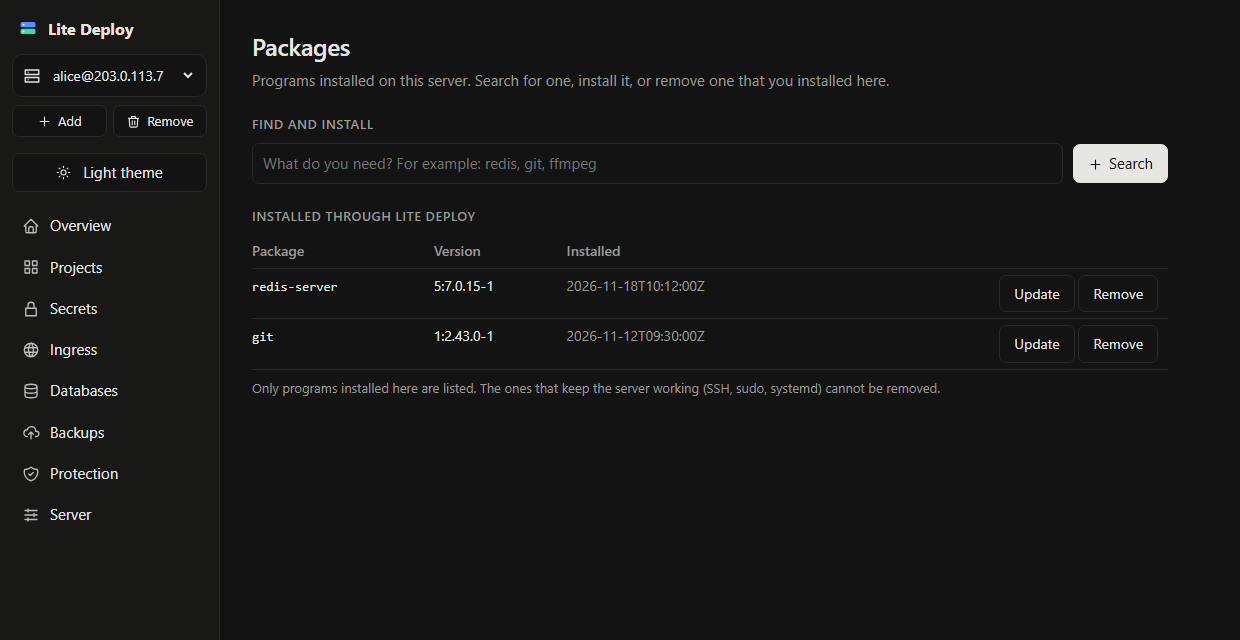
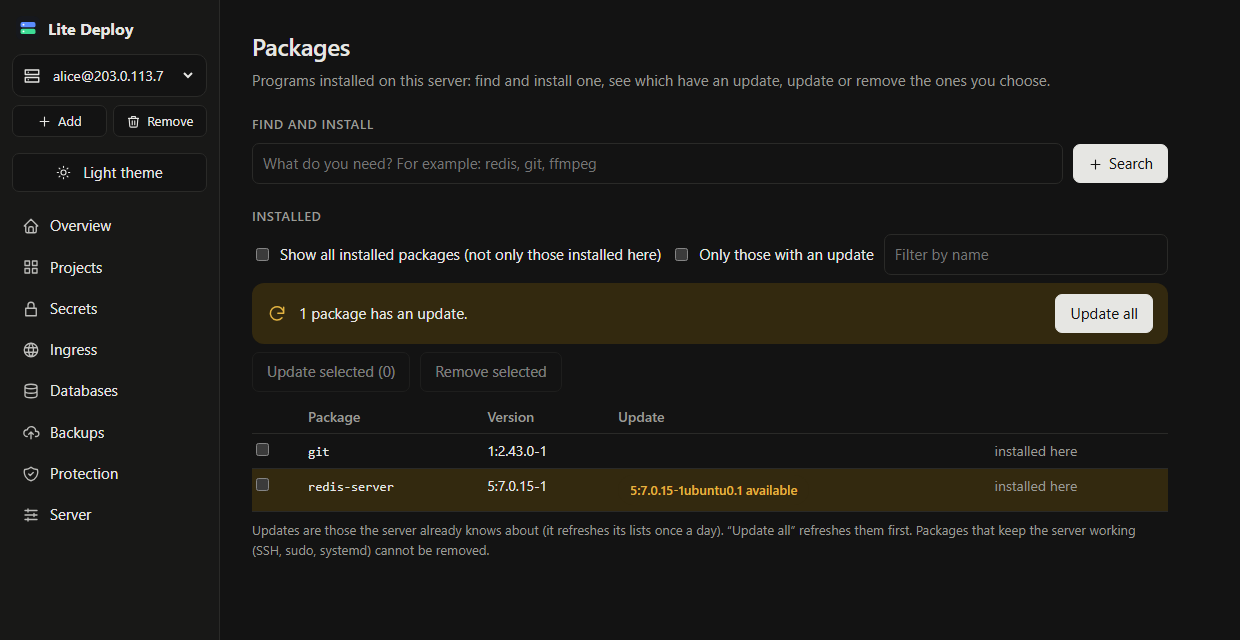
Packages: all installed packages, highlighted updates, selection, Update all (server: package list --all, update --all)

diff --git a/internal/ui/web/js/packages.js b/internal/ui/web/js/packages.js
@@ -1,52 +1,84 @@
 (function () {
-  // The packages of the server: search, install, update and remove. Everything is done by the `package` plugin on the
-  // server; this page only asks.
+  // The packages of the server: search and install, see what is installed and what has an update, update or remove the
+  // ones you choose, or update everything. All of it is done by the `package` plugin on the server; this page only asks.
   LU.components.Packages = {
-    data: function () { return { query: '', found: null, list: null, error: '' }; },
+    data: function () { return { query: '', found: null, list: null, error: '', all: false, filter: '', onlyUpd: false, sel: {} }; },
     template: '\
 <div>\
   <h1>Packages</h1>\
-  <p class="sub">Programs installed on this server. Search for one, install it, or remove one that you installed here.</p>\
+  <p class="sub">Programs installed on this server: find and install one, see which have an update, update or remove the ones you choose.</p>\
   <h3>Find and install</h3>\
   <form class="row" @submit.prevent="search">\
     <input class="grow" type="text" v-model="query" placeholder="What do you need? For example: redis, git, ffmpeg" autocomplete="off" spellcheck="false">\
     <button class="primary" type="submit" :disabled="$root.state.busy"><icon name="plus"></icon>Search</button></form>\
-  <p v-if="error" class="down">{{ error }}</p>\
   <table v-if="found && found.length"><tr><th>Package</th><th>What it is</th><th></th></tr>\
     <tr v-for="f in found" :key="f.name"><td><code>{{ f.name }}</code></td><td>{{ f.summary }}</td>\
       <td style="text-align:right"><button @click="install(f.name)" :disabled="$root.state.busy">Install</button></td></tr></table>\
   <p v-else-if="found" class="empty">Nothing found. Try another word.</p>\
-  <h3>Installed through Lite Deploy</h3>\
-  <p v-if="list && !list.length" class="empty">Nothing yet. Programs you install here appear in this list.</p>\
-  <table v-else-if="list"><tr><th>Package</th><th>Version</th><th>Installed</th><th></th></tr>\
-    <tr v-for="p in list" :key="p.name"><td><code>{{ p.name }}</code></td><td>{{ p.version }}</td><td class="muted">{{ p.installed_at }}</td>\
-      <td style="text-align:right;white-space:nowrap"><button @click="update(p.name)" :disabled="$root.state.busy">Update</button>\
-        <button @click="remove(p.name)" :disabled="$root.state.busy">Remove</button></td></tr></table>\
+  <h3>Installed</h3>\
+  <div class="row" style="margin-bottom:8px">\
+    <label class="check" style="margin:0"><input type="checkbox" v-model="all" @change="load"> Show all installed packages (not only those installed here)</label>\
+    <label class="check" style="margin:0"><input type="checkbox" v-model="onlyUpd"> Only those with an update</label>\
+    <input class="grow" type="text" v-model="filter" placeholder="Filter by name" autocomplete="off" spellcheck="false"></div>\
+  <div v-if="list" class="notice" :class="{warn: updates > 0}"><icon name="refresh"></icon>\
+    <div class="t">{{ updates ? updates + (updates === 1 ? " package has" : " packages have") + " an update." : "Everything shown is up to date." }}</div>\
+    <button v-if="updates" class="primary" @click="updateAll" :disabled="$root.state.busy">Update all</button></div>\
+  <div class="row" style="margin:8px 0" v-if="list">\
+    <button @click="updateSelected" :disabled="$root.state.busy || !chosen.length">Update selected ({{ chosen.length }})</button>\
+    <button @click="removeSelected" :disabled="$root.state.busy || !chosen.length">Remove selected</button>\
+    <span class="help" v-if="chosen.length > 16">Choose at most 16 at a time.</span>\
+    <span class="help" v-else-if="chosen.length && !removable">Remove works only for packages installed here.</span></div>\
+  <p v-if="error" class="down">{{ error }}</p>\
+  <table v-if="list && shown.length"><tr><th></th><th>Package</th><th>Version</th><th>Update</th><th></th></tr>\
+    <tr v-for="p in shown" :key="p.name" :style="p.update ? \'background:var(--warnbg)\' : \'\'">\
+      <td><input type="checkbox" v-model="sel[p.name]"></td>\
+      <td><code>{{ p.name }}</code></td><td>{{ p.version }}</td>\
+      <td><span v-if="p.update" class="pill warn">{{ p.update }} available</span></td>\
+      <td class="muted">{{ p.lite ? "installed here" : "" }}</td></tr></table>\
+  <p v-else-if="list" class="empty">{{ list.length ? "Nothing matches the filter." : "Nothing yet. Programs you install here appear in this list; tick “Show all installed packages” to see everything." }}</p>\
   <p v-else class="empty">Loading…</p>\
-  <div class="help">Only programs installed here are listed. The ones that keep the server working (SSH, sudo, systemd) cannot be removed.</div>\
+  <div class="help">Updates are those the server already knows about (it refreshes its lists once a day). “Update all” refreshes them first. Packages that keep the server working (SSH, sudo, systemd) cannot be removed.</div>\
 </div>',
+    computed: {
+      shown: function () {
+        var f = this.filter.trim().toLowerCase(), only = this.onlyUpd;
+        return (this.list || []).filter(function (p) { return (!f || p.name.toLowerCase().indexOf(f) >= 0) && (!only || p.update); });
+      },
+      updates: function () { return (this.list || []).filter(function (p) { return p.update; }).length; },
+      chosen: function () { var s = this.sel; return (this.list || []).filter(function (p) { return s[p.name]; }); },
+      removable: function () { return this.chosen.every(function (p) { return p.lite; }); }
+    },
     methods: {
       load: function () {
-        var self = this;
-        LU.api('/api/plugin', { plugin: 'package', command: 'list', args: [] }).then(function (r) {
+        var self = this; self.error = ''; self.list = null; self.sel = {};
+        LU.api('/api/plugin', { plugin: 'package', command: 'list', args: self.all ? ['--all'] : [] }).then(function (r) {
           if (r.ok) { self.list = (r.data && r.data.packages) || []; } else { self.error = r.error ? r.error.message : 'Could not load.'; }
         });
       },
       search: function () {
         var self = this, q = this.query.trim();
-        self.error = '';
         if (q.length < 2) { LU.say('err', 'Type at least two letters.'); return; }
         LU.run('Searching…', '/api/plugin', { plugin: 'package', command: 'search', args: q.split(/\s+/) }, function () { return 'Done.'; })
           .then(function (r) { if (r.ok) { self.found = (r.data && r.data.found) || []; LU.clear(); } });
       },
-      act: function (verb, name, wait, doneText) {
+      act: function (verb, names, ask, wait, doneText) {
         var self = this;
-        if (!confirm(verb[0].toUpperCase() + verb.slice(1) + ' ' + name + ' on this server?')) return;
-        LU.run(wait, '/api/plugin', { plugin: 'package', command: verb, args: [name] }, function () { return doneText; }).then(function () { self.load(); });
+        if (!confirm(ask)) return;
+        LU.run(wait, '/api/plugin', { plugin: 'package', command: verb, args: names }, function () { return doneText; }).then(function () { self.load(); });
       },
-      install: function (n) { this.act('install', n, 'Installing ' + n + '…', n + ' is installed.'); },
-      update: function (n) { this.act('update', n, 'Updating ' + n + '…', n + ' is updated.'); },
-      remove: function (n) { this.act('remove', n, 'Removing ' + n + '…', n + ' is removed.'); }
+      install: function (n) { this.act('install', [n], 'Install ' + n + ' on this server?', 'Installing ' + n + '…', n + ' is installed.'); },
+      updateAll: function () { this.act('update', ['--all'], 'Update every package that has an update (' + this.updates + ')? Some services may restart.', 'Updating everything… this can take a few minutes', 'Everything is updated.'); },
+      updateSelected: function () {
+        var n = this.chosen.map(function (p) { return p.name; });
+        if (n.length > 16) { LU.say('err', 'Choose at most 16 packages at a time, or use “Update all”.'); return; }
+        this.act('update', n, 'Update ' + n.join(', ') + '?', 'Updating…', 'Updated: ' + n.join(', ') + '.');
+      },
+      removeSelected: function () {
+        var n = this.chosen.map(function (p) { return p.name; });
+        if (n.length > 16) { LU.say('err', 'Choose at most 16 packages at a time.'); return; }
+        if (!this.removable) { LU.say('err', 'Remove works only for packages installed here. Untick the others.'); return; }
+        this.act('remove', n, 'Remove ' + n.join(', ') + ' from this server?', 'Removing…', 'Removed: ' + n.join(', ') + '.');
+      }
     },
     mounted: function () { this.load(); }
   };

diff --git a/internal/pkgmgr/pkgmgr.go b/internal/pkgmgr/pkgmgr.go
@@ -441,3 +441,137 @@ func (m *Manager) Search(ctx context.Context, query string) ([]Found, error) {
 	}
 	return out, nil
 }
+
+// Installed is a package that is on the system, however it got there.
+type Installed struct {
+	Name    string `json:"name"`
+	Version string `json:"version"`
+}
+
+// ListAll returns every package that is installed on the system (not only those installed through lite).
+func (m *Manager) ListAll(ctx context.Context) ([]Installed, error) {
+	mgr, err := m.Detect(ctx)
+	if err != nil {
+		return nil, err
+	}
+	var c host.Cmd
+	switch mgr {
+	case "apt":
+		c = host.Cmd{Name: "dpkg-query", Args: []string{"-W", "-f=${Package}\t${Version}\t${Status}\n"}}
+	case "dnf", "zypper":
+		c = host.Cmd{Name: "rpm", Args: []string{"-qa", "--qf", "%{NAME}\t%{VERSION}-%{RELEASE}\n"}}
+	default:
+		c = host.Cmd{Name: "pacman", Args: []string{"-Q"}}
+	}
+	res, err := m.Runner.Run(ctx, c)
+	if err != nil {
+		return nil, err
+	}
+	if res.ExitCode != 0 {
+		return nil, fail("step_failed", "could not list the packages: %s", strings.TrimSpace(string(res.Stderr)))
+	}
+	out := []Installed{}
+	for _, line := range strings.Split(string(res.Stdout), "\n") {
+		var name, ver string
+		switch mgr {
+		case "apt":
+			f := strings.Split(line, "\t")
+			if len(f) < 3 || !strings.HasSuffix(f[2], " installed") || strings.HasPrefix(f[2], "deinstall") {
+				continue
+			}
+			name, ver = f[0], f[1]
+		case "pacman":
+			name, ver, _ = strings.Cut(line, " ")
+		default:
+			name, ver, _ = strings.Cut(line, "\t")
+		}
+		if name = strings.TrimSpace(name); nameRe.MatchString(name) {
+			out = append(out, Installed{Name: name, Version: strings.TrimSpace(ver)})
+		}
+	}
+	sort.Slice(out, func(i, j int) bool { return out[i].Name < out[j].Name })
+	return out, nil
+}
+
+var aptInstRe = regexp.MustCompile(`^Inst (\S+) (?:\[[^\]]*\] )?\((\S+)`)
+
+// Upgradable returns the packages for which a newer version is available: name → the new version. It reads the lists of
+// packages the system already has (run an update of the lists to learn about the newest ones) and changes nothing.
+func (m *Manager) Upgradable(ctx context.Context) (map[string]string, error) {
+	mgr, err := m.Detect(ctx)
+	if err != nil {
+		return nil, err
+	}
+	out := map[string]string{}
+	switch mgr {
+	case "apt":
+		res, err := m.Runner.Run(ctx, host.Cmd{Name: "apt-get", Args: []string{"-s", "upgrade"}})
+		if err != nil {
+			return nil, err
+		}
+		for _, line := range strings.Split(string(res.Stdout), "\n") {
+			if mm := aptInstRe.FindStringSubmatch(strings.TrimSpace(line)); mm != nil {
+				out[mm[1]] = mm[2]
+			}
+		}
+	case "dnf":
+		res, err := m.Runner.Run(ctx, host.Cmd{Name: "dnf", Args: []string{"-q", "check-update"}})
+		if err != nil {
+			return nil, err
+		}
+		for _, line := range strings.Split(string(res.Stdout), "\n") {
+			f := strings.Fields(line)
+			if len(f) == 3 {
+				name, _, _ := strings.Cut(f[0], ".")
+				out[name] = f[1]
+			}
+		}
+	}
+	return out, nil
+}
+
+// UpdateAll brings every installed package to the newest version the repositories have.
+func (m *Manager) UpdateAll(ctx context.Context) error {
+	mgr, err := m.Detect(ctx)
+	if err != nil {
+		return err
+	}
+	env := []string{"DEBIAN_FRONTEND=noninteractive"}
+	var cmds []host.Cmd
+	switch mgr {
+	case "apt":
+		cmds = []host.Cmd{{Name: "apt-get", Args: []string{"update", "-qq"}}, {Name: "apt-get", Args: []string{"upgrade", "-y", "-qq"}, Env: env}}
+	case "dnf":
+		cmds = []host.Cmd{{Name: "dnf", Args: []string{"upgrade", "-y", "-q"}}}
+	case "zypper":
+		cmds = []host.Cmd{{Name: "zypper", Args: []string{"--non-interactive", "update"}}}
+	default:
+		cmds = []host.Cmd{{Name: "pacman", Args: []string{"-Syu", "--noconfirm"}}}
+	}
+	for _, c := range cmds {
+		res, err := m.run(ctx, c)
+		if err != nil {
+			return fail("step_failed", "%s: %v", c.Name, err)
+		}
+		if res.ExitCode != 0 && c.Name == "apt-get" && aptSandboxDenied(res) {
+			c.Args = append([]string{"-o", "APT::Sandbox::User=root"}, c.Args...)
+			if res, err = m.run(ctx, c); err != nil {
+				return fail("step_failed", "%s: %v", c.Name, err)
+			}
+		}
+		if res.ExitCode != 0 {
+			return fail("step_failed", "%s %s: %s", c.Name, strings.Join(c.Args, " "), strings.TrimSpace(string(res.Stderr)))
+		}
+	}
+	// the versions kept in the journal of lite follow
+	es, err := m.loadJournal()
+	if err != nil {
+		return err
+	}
+	for i := range es {
+		if v, ok, _ := m.Query(ctx, mgr, es[i].Name); ok {
+			es[i].Version = v
+		}
+	}
+	return m.saveJournal(es)
+}

diff --git a/internal/builtin/pkg.go b/internal/builtin/pkg.go
@@ -22,11 +22,11 @@ func (Pkg) Description() string {
 }
 func (Pkg) Commands() []plugin.Command {
 	return []plugin.Command{
-		{Name: "list", Help: "packages installed through lite"},
+		{Name: "list", Args: "[--all]", Help: "packages installed through lite (--all: every installed package), with the newer version where one is available"},
 		{Name: "search", Help: "find packages by name or description (reads only)", Args: "WORDS"},
 		{Name: "check", Help: "whether a package is installed and its version", Args: "PACKAGE"},
 		{Name: "install", Help: "install packages", Args: "PACKAGE…", Confirm: true},
-		{Name: "update", Help: "update packages", Args: "PACKAGE…", Confirm: true},
+		{Name: "update", Help: "update packages (--all: every installed package)", Args: "PACKAGE…|--all", Confirm: true},
 		{Name: "remove", Help: "remove packages (the ssh server, sudo, systemd and the shell cannot be removed)", Args: "PACKAGE…", Confirm: true},
 	}
 }
@@ -47,24 +47,54 @@ func (Pkg) Run(ctx context.Context, env plugin.Env, cmd string, args []string) (
 	m := manager(env)
 	switch cmd {
 	case "list":
-		if len(args) != 0 {
-			return plugin.Output{}, plugin.Errorf("usage", "package list: takes no arguments")
+		all := len(args) == 1 && args[0] == "--all"
+		if len(args) != 0 && !all {
+			return plugin.Output{}, plugin.Errorf("usage", "usage: lite package list [--all]")
 		}
 		es, err := m.List()
 		if err != nil {
 			return plugin.Output{}, pkgErr(err)
 		}
-		if es == nil {
-			es = []pkgmgr.Entry{}
+		upd, uerr := m.Upgradable(ctx)
+		if uerr != nil {
+			upd = map[string]string{} // the list is still useful without the marks
+		}
+		type row struct {
+			Name        string `json:"name"`
+			Version     string `json:"version"`
+			InstalledAt string `json:"installed_at,omitempty"`
+			Lite        bool   `json:"lite"`
+			Update      string `json:"update,omitempty"`
+		}
+		rows := []row{}
+		byLite := map[string]bool{}
+		for _, e := range es {
+			byLite[e.Name] = true
+			if !all {
+				rows = append(rows, row{Name: e.Name, Version: e.Version, InstalledAt: e.InstalledAt, Lite: true, Update: upd[e.Name]})
+			}
+		}
+		if all {
+			every, err := m.ListAll(ctx)
+			if err != nil {
+				return plugin.Output{}, pkgErr(err)
+			}
+			for _, p := range every {
+				rows = append(rows, row{Name: p.Name, Version: p.Version, Lite: byLite[p.Name], Update: upd[p.Name]})
+			}
 		}
 		var sb strings.Builder
-		if len(es) == 0 {
+		if len(rows) == 0 {
 			sb.WriteString("No packages have been installed through lite yet.\n")
 		}
-		for _, e := range es {
-			fmt.Fprintf(&sb, "%-30s %-20s %s\n", e.Name, e.Version, e.InstalledAt)
+		for _, r := range rows {
+			note := ""
+			if r.Update != "" {
+				note = "  update: " + r.Update
+			}
+			fmt.Fprintf(&sb, "%-30s %-20s%s\n", r.Name, r.Version, note)
 		}
-		return plugin.Output{Text: sb.String(), Data: map[string]any{"packages": es}}, nil
+		return plugin.Output{Text: sb.String(), Data: map[string]any{"packages": rows}}, nil
 	case "search":
 		if len(args) == 0 {
 			return plugin.Output{}, plugin.Errorf("usage", "usage: lite package search WORDS")
@@ -99,6 +129,12 @@ func (Pkg) Run(ctx context.Context, env plugin.Env, cmd string, args []string) (
 		}
 		return plugin.Output{Text: text, Data: in}, nil
 	case "install", "update", "remove":
+		if cmd == "update" && len(args) == 1 && args[0] == "--all" {
+			if err := m.UpdateAll(ctx); err != nil {
+				return plugin.Output{}, pkgErr(err)
+			}
+			return textOut("Every package is updated.\n"), nil
+		}
 		if len(args) == 0 {
 			return plugin.Output{}, plugin.Errorf("usage", "usage: lite package %s PACKAGE…", cmd)
 		}

diff --git a/internal/pkgmgr/pkgmgr_test.go b/internal/pkgmgr/pkgmgr_test.go
@@ -269,3 +269,41 @@ func TestAptRetriesWithoutTheSandboxUser(t *testing.T) {
 		t.Errorf("a real failure must be reported: %v", err)
 	}
 }
+
+func TestListAllAndUpgradable(t *testing.T) {
+	r := &host.FakeRunner{Handler: func(c host.Cmd) (host.Result, error) {
+		switch c.Name {
+		case "dpkg-query":
+			return host.Result{Stdout: []byte("bash\t5.2-1\tinstall ok installed\nold\t1.0\tdeinstall ok config-files\nredis-server\t7.0-1\tinstall ok installed\n")}, nil
+		case "apt-get":
+			if len(c.Args) > 0 && c.Args[0] == "-s" {
+				return host.Result{Stdout: []byte("Reading package lists...\nInst redis-server [7.0-1] (7.0-2 Ubuntu:24.04/noble-updates [amd64])\nConf redis-server (7.0-2 Ubuntu:24.04/noble-updates [amd64])\n")}, nil
+			}
+		}
+		return host.Result{}, nil
+	}}
+	m := &Manager{Runner: r, FS: host.NewMemFS()}
+	all, err := m.ListAll(context.Background())
+	if err != nil || len(all) != 2 || all[0].Name != "bash" || all[1].Version != "7.0-1" {
+		t.Fatalf("a removed package must not be listed: %+v %v", all, err)
+	}
+	up, err := m.Upgradable(context.Background())
+	if err != nil || up["redis-server"] != "7.0-2" || len(up) != 1 {
+		t.Fatalf("%+v %v", up, err)
+	}
+}
+
+func TestUpdateAll(t *testing.T) {
+	var calls []string
+	r := &host.FakeRunner{Handler: func(c host.Cmd) (host.Result, error) {
+		calls = append(calls, c.Name+" "+strings.Join(c.Args, " "))
+		return host.Result{}, nil
+	}}
+	m := &Manager{Runner: r, FS: host.NewMemFS(), Now: time.Now}
+	if err := m.UpdateAll(context.Background()); err != nil {
+		t.Fatal(err)
+	}
+	if j := strings.Join(calls, "\n"); !strings.Contains(j, "apt-get update -qq") || !strings.Contains(j, "apt-get upgrade -y -qq") {
+		t.Errorf("%s", j)
+	}
+}
